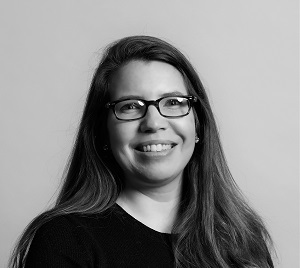
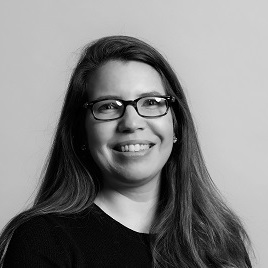
Update mentors

Changed region(s): [[0.0, 0.1194, 0.6866, 1.0], [0.6866, 0.4478, 0.9552, 1.0], [0.6866, 0.3881, 0.7164, 0.4478]]

diff --git a/src/client/app/home/controllers.js b/src/client/app/home/controllers.js
@@ -211,6 +211,16 @@ function mentorCtrl() {
       title: 'Mentor',
       img: require('../../assets/images/mentors/mel.jpg'),
       twitter: 'MelanieGarvey'
+   }, {
+      name: 'Jenn Bono',
+      title: 'Mentor',
+      img: require('../../assets/images/mentors/jenn.jpg'),
+      twitter: 'jenn_bono24'
+   }, {
+      name: 'McKenzie Hine',
+      title: 'Mentor',
+      img: require('../../assets/images/mentors/mckenzie.jpg'),
+      twitter: 'mckenz_h'
    }]
 }
 
